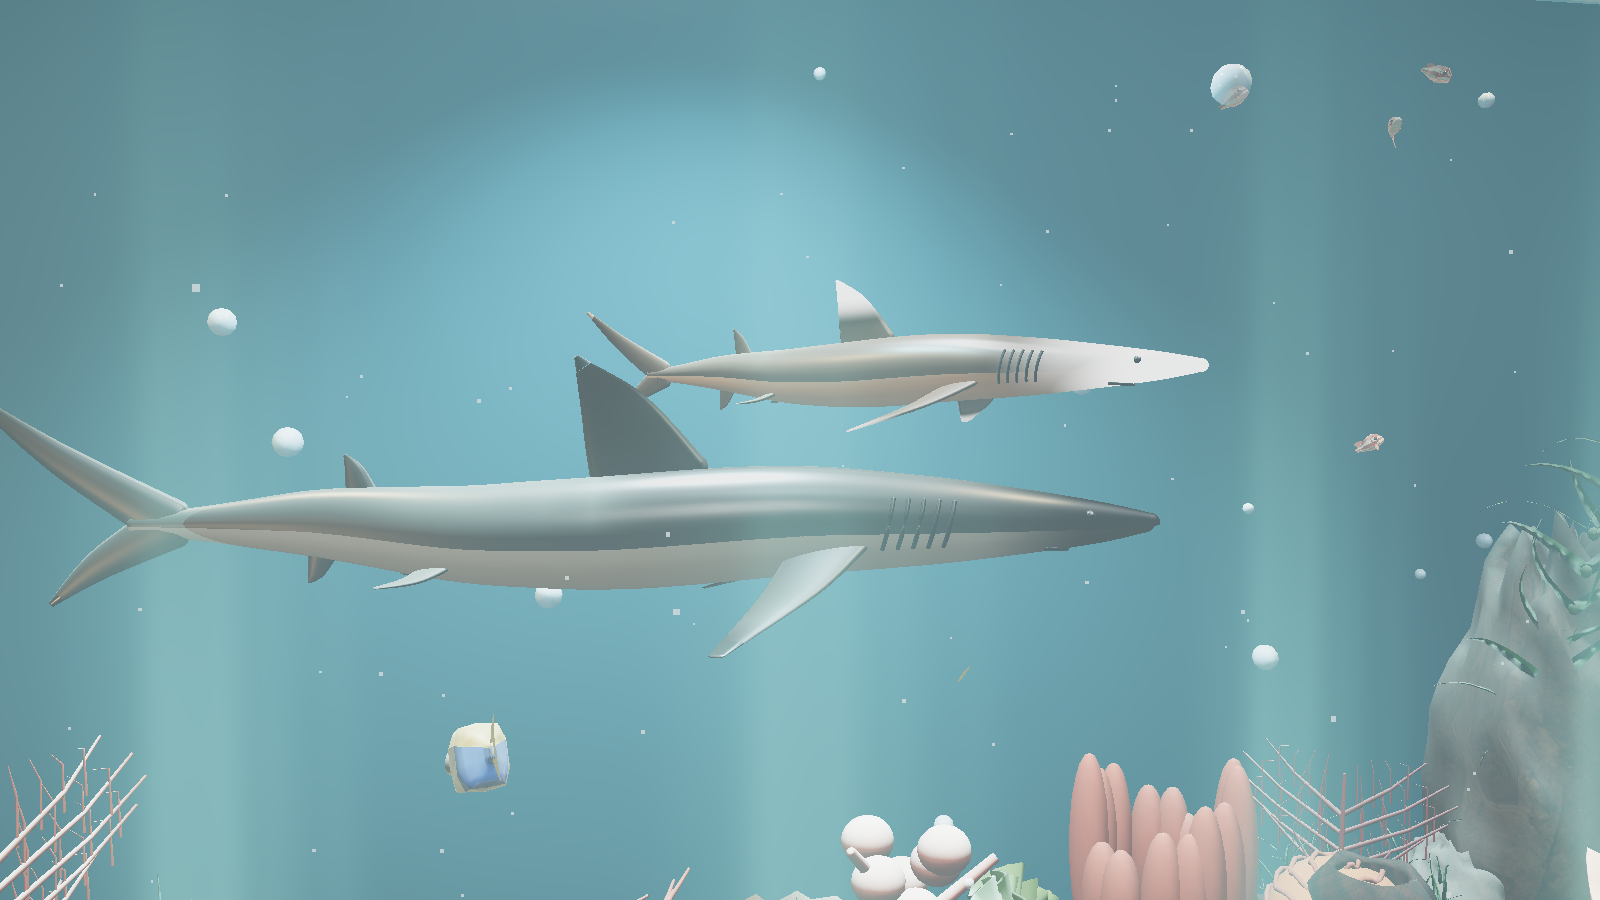
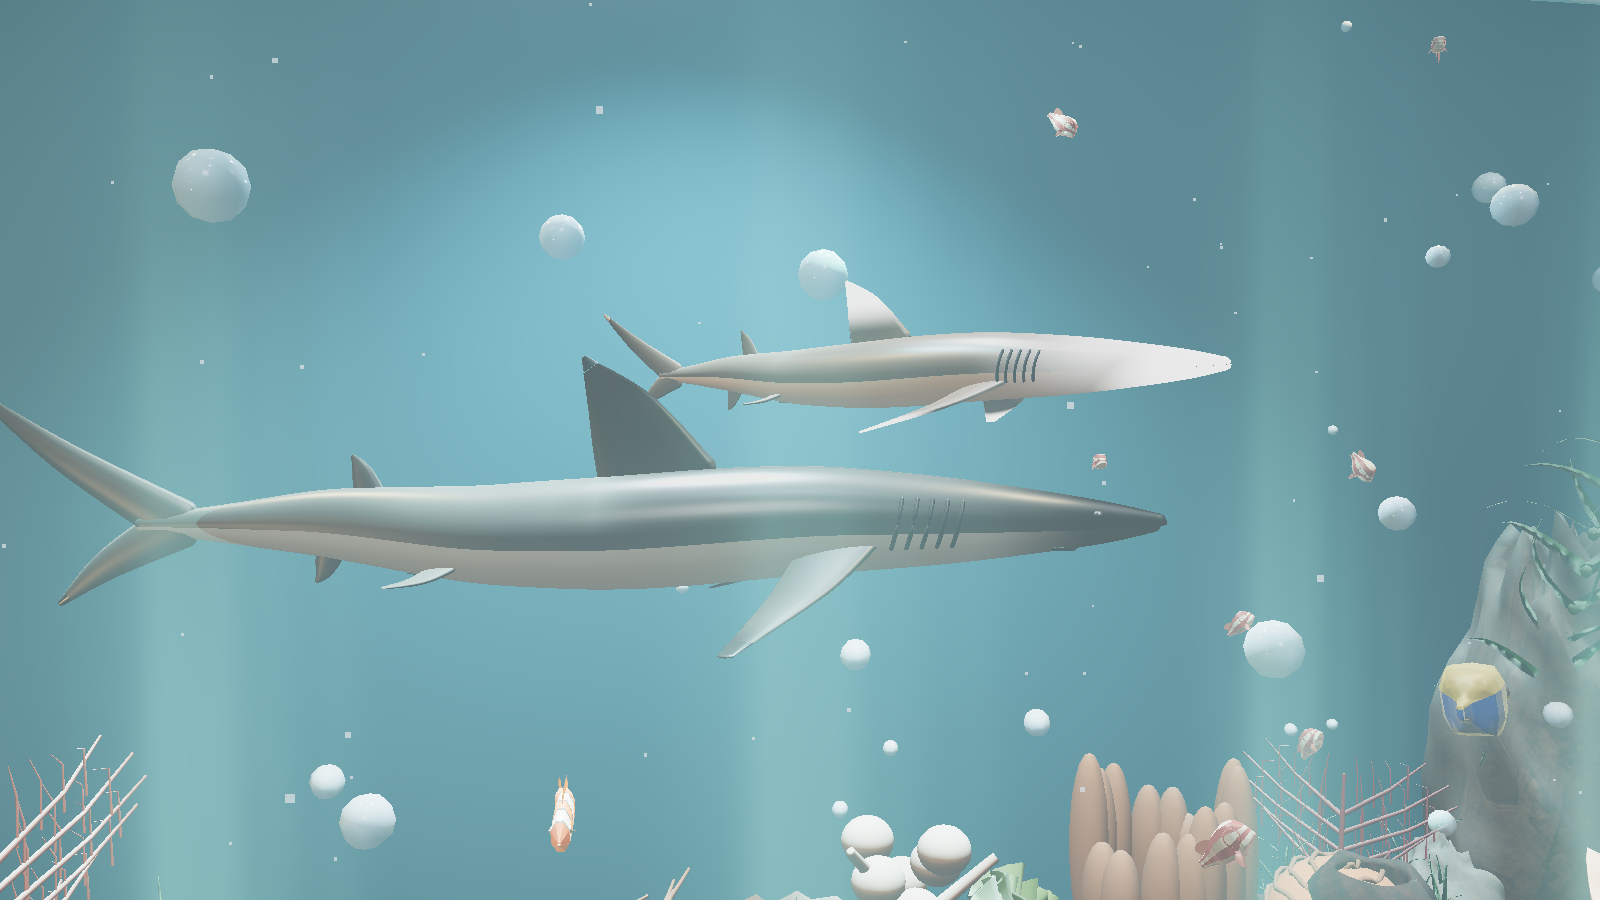
Mercan rengi, daha küçük balık gözleri ve İnci’nin uçları
Parmak/karanfil mercanlar daha toprak tonunda; balık gözleri küçültüldü.
İnci’nin beyaz yüzgeç uçları biraz daha geniş ve parlak. Orta/llvmpipe temiz.

diff --git a/js/actors.js b/js/actors.js
@@ -235,12 +235,13 @@ const SHARK_MARKS = `
     smoothstep(0.66, 0.76, vLift) * (1.0 - smoothstep(0.86, 0.95, vLift)) * smoothstep(0.28, 0.48, vAlong) * (1.0 - smoothstep(0.62, 0.84, vAlong))
   ), smoothstep(0.58, 0.72, vSide) * (1.0 - smoothstep(0.80, 0.92, vSide)) * (1.0 - smoothstep(0.58, 0.84, vLift)) * smoothstep(0.18, 0.38, vAlong) * (1.0 - smoothstep(0.52, 0.76, vAlong))), 0.0, 1.0);
   if (uMark > 0.5) {
-    float dTipW = smoothstep(0.70, 0.88, vLift) * smoothstep(0.26, 0.50, vAlong) * (1.0 - smoothstep(0.62, 0.84, vAlong));
-    float tailW = smoothstep(0.76, 0.92, vAlong) * smoothstep(0.12, 0.55, max(vLift, vSide));
-    float tipF = clamp(max(tip, max(dTipW, tailW)), 0.0, 1.0);
-    outgoingLight = mix(outgoingLight, outgoingLight * vec3(0.18, 0.16, 0.13), collar * 0.85);
-    outgoingLight = mix(outgoingLight, vec3(0.98, 0.99, 0.96), tipF * 0.99);
-    outgoingLight += vec3(0.22, 0.22, 0.2) * tipF * 0.45;
+    float dTipW = smoothstep(0.64, 0.86, vLift) * smoothstep(0.24, 0.52, vAlong) * (1.0 - smoothstep(0.60, 0.84, vAlong));
+    float tailW = smoothstep(0.70, 0.90, vAlong) * smoothstep(0.10, 0.58, max(vLift, vSide));
+    float pecW = smoothstep(0.62, 0.84, vSide) * (1.0 - smoothstep(0.55, 0.82, vLift)) * smoothstep(0.16, 0.40, vAlong);
+    float tipF = clamp(max(tip, max(dTipW, max(tailW, pecW))), 0.0, 1.0);
+    outgoingLight = mix(outgoingLight, outgoingLight * vec3(0.16, 0.14, 0.11), collar * 0.9);
+    outgoingLight = mix(outgoingLight, vec3(0.99, 0.99, 0.97), tipF * 1.0);
+    outgoingLight += vec3(0.28, 0.28, 0.26) * tipF * 0.7;
   } else {
     outgoingLight = mix(outgoingLight, vec3(0.01, 0.01, 0.012), tip * 0.97);
   }
@@ -725,7 +726,7 @@ function makePlateCoral(size, uniforms) {
   ensureProjectedUv(geo);
   const mat = new THREE.MeshStandardMaterial({
     map: coralSurfaceTex("plate"),
-    color: 0xa87848,
+    color: 0x9a6a38,
     roughness: 0.9,
     metalness: 0,
     envMapIntensity: 0.28,
@@ -767,10 +768,10 @@ function styleCoralMaterial(m, name, opts, quality) {
     staghorn: 0xb07a52,
     elkhorn: 0xb89860,
     pillar: 0xb07a48,
-    finger: 0x9a5e38,
+    finger: 0x8a6240,
     seafan: 0xa85a42,
     softbush: 0x8a6a38,
-    carnation: 0xa84830,
+    carnation: 0x8a5030,
     barrel_sponge: 0xa85a28,
     vase_sponge: 0xb86838,
     anemone: 0xd4a078,
@@ -781,7 +782,7 @@ function styleCoralMaterial(m, name, opts, quality) {
   };
   if (opts && opts.tint) m.color?.multiply(new THREE.Color(opts.tint));
   else if (NATURAL[name]) m.color?.set(NATURAL[name]);
-  if (matName.includes("pink")) m.color?.set(0xa85a48);
+  if (matName.includes("pink")) m.color?.set(0x8a5a38);
   if (m.roughness !== undefined) m.roughness = Math.min(Math.max(m.roughness ?? 0.62, 0.45), 0.8);
   m.envMapIntensity = 0.5;
 }
@@ -1099,7 +1100,7 @@ function styleReefFish(root, uniforms, key) {
       o.geometry.computeBoundingBox();
       const c = o.geometry.boundingBox.getCenter(new THREE.Vector3());
       o.geometry.translate(-c.x, -c.y, -c.z);
-      o.geometry.scale(0.68, 0.68, 0.68);
+      o.geometry.scale(0.58, 0.58, 0.58);
       o.geometry.translate(c.x, c.y, c.z);
       o.geometry.computeVertexNormals();
     }

diff --git a/index.html b/index.html
@@ -138,6 +138,6 @@
       </form>
     </div>
   </div>
-  <script type="module" src="js/main.js?v=20261121aa"></script>
+  <script type="module" src="js/main.js?v=20261121ab"></script>
 </body>
 </html>
